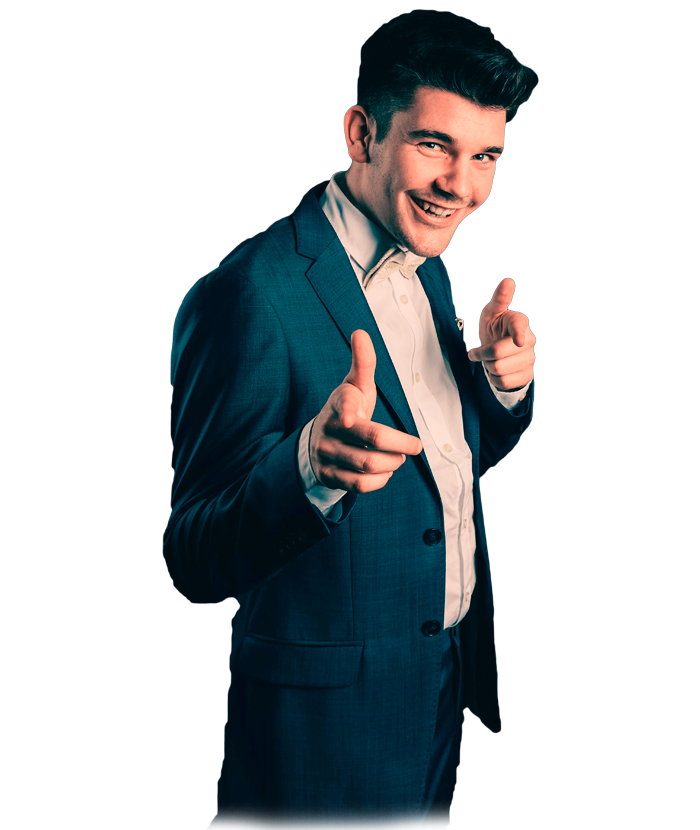
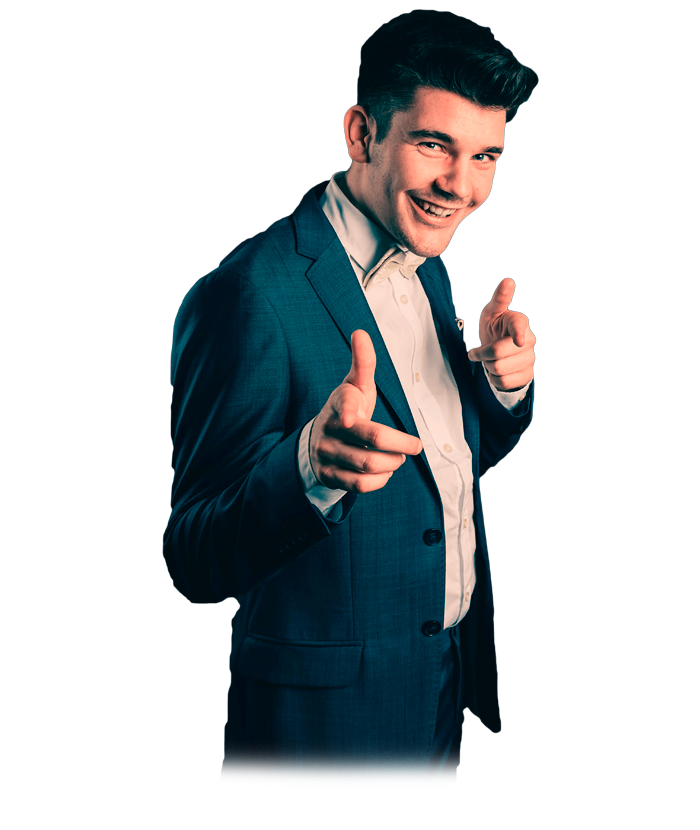
Responsive
- Removed <br> on mobile.
- Fixed image of myself with fade.
- Even more responsive for mobile

Changed region(s): [[0.3, 0.9036, 0.66, 1.0]]

diff --git a/css/style.css b/css/style.css
@@ -91,6 +91,28 @@ body, html {
   color: white;
 }
 
+.nameFontMobile {
+  font-size: 3em;
+  font-family: 'Lato';
+  font-weight: 300;
+  line-height: 0.7em;
+  letter-spacing: -2px; 
+  margin-bottom: 0;
+  margin-top: 30%;
+  color: white;
+}
+
+.nameFontMobile1 {
+  font-size: 3em;
+  font-family: 'Lato';
+  font-weight: 300;
+  line-height: 0.7em;
+  letter-spacing: -2px; 
+  margin-bottom: 0;
+  margin-top: 3%;
+  color: white;
+}
+
 #imFont {
   font-size: 2.5em;
   font-family: 'Lato'
@@ -126,7 +148,7 @@ body, html {
 	text-align: center;
 	background: linear-gradient(#FFFFFF, #F2F2F2);
 	padding-top: 3%;
-	margin-top: -1%;
+
 	z-index: 100;
 }
 
@@ -205,12 +227,9 @@ body, html {
     display: none;
   }
 
-  #nameFont {
-    font-size: 2em;
-  }
-
   #imFont {
-    font-size: 1em;
+    font-size: 1.5em;
+    margin-top: 3%;
   }
 
   .portfolioPhotoGone {
@@ -224,7 +243,24 @@ body, html {
   .underTitleTxtIntern {
     font-size: 2.5em;
   }
+  
+  #myPhoto {
+    width: 100%;
+  }
+  
 
+
+  .container-fluid-9 {
+    padding-top: 20px;
+  }
+
+  #nameFont {
+    display: none;
+  }
+
+  br {
+    display: none;
+  }
 }
 
 /* MEDIA QUERY DESKTOP */
@@ -235,4 +271,11 @@ body, html {
     display: none;
   }
 
+  .nameFontMobile {
+    display: none;
+  }
+
+  .nameFontMobile1 {
+    display: none;
+  }
 }

diff --git a/index.php b/index.php
@@ -36,6 +36,8 @@
 		<div class="row">
 			<div class="col-md-12 col-xs-12">
 				<p id="nameFont" class="animated fadeInUp"><span style="font-weight: 700;" >ALEXANDER</span>BRASGAARD</p>
+				<p class="nameFontMobile" class="animated fadeInUp"><span style="font-weight: 700;" >ALEXANDER</span></p>
+				<p class="nameFontMobile1" class="animated fadeInUp">BRASGAARD</p>
   				<p id="imFont" class="animated fadeInUp">I'm a <span class="txt-rotate" data-period="5000" data-rotate='[ "< Front-end Developer >" ]'></span> and Web Designer</p>
 			</div>
 		</div>
@@ -48,10 +50,10 @@
 		<div class="row">
 			<div class="col-md-6 col-xs-12">
 				<h3 class="titleTxtLeft ">about me</h3>
-			  	<p class="underTitleTxtLeft">I'm a front-end developer student<br>based in Aarhus, Denmark.</p>
-			  	<p class="commenTxtLeft">Hi! My name is Alexander Brasgaard.<br>I'm interested in all kinds of visual communication<br>but my major focus is on web development. I love creating stunning<br> functional and unique websites. Which brings great value<br>and a huge smile on the customers lips.</p>
-			  	<p class="commenTxtLeft">In my spare time I really enjoy hanging out with friends<br>and do something fun or exciting. And obviously sitting<br>in front of my computer with music in my ears.</p>
-			  	<p class="commenTxtLeft">I have always loved to explore and try out new things.<br>Being spontaneous is a big part of me. If i see a great opportunity<br> to try something out, count me in! It's important to me to keep<br>growing on a personal level together with my professional career.</p>
+			  	<p class="underTitleTxtLeft">I'm a front-end developer student <br>based in Aarhus, Denmark.</p>
+			  	<p class="commenTxtLeft">Hi! My name is Alexander Brasgaard.<br>I'm interested in all kinds of visual communication <br>but my major focus is on web development. I love creating stunning<br> functional and unique websites. Which brings great value<br>and a huge smile on the customers lips.</p>
+			  	<p class="commenTxtLeft">In my spare time I really enjoy hanging out with friends <br>and do something fun or exciting. And obviously sitting <br>in front of my computer with music in my ears.</p>
+			  	<p class="commenTxtLeft">I have always loved to explore and try out new things.<br> Being spontaneous is a big part of me. If i see a great opportunity<br> to try something out, count me in! It's important to me to keep<br> growing on a personal level together with my professional career.</p>
 			</div>
 
 			<div class="col-md-6 col-xs-12">
@@ -78,7 +80,7 @@
 			<div class="col-md-6 col-xs-12">
 				<h3 class="titleTxtLeft">haute friture</h3>
 			  	<p class="underTitleTxtLeft">Where grill meets gourment.</p>
-			  	<p class="commenTxtLeft">In this project I worked together with my study group to create<br>a new website for Haute Friture. They didn't have a website and<br> wanted to be able to show their current and new customers what<br>their gourment grill looked like. The requirement was to have focus on<br>their unique food through visuelle element and provide a menu.</p>
+			  	<p class="commenTxtLeft">In this project I worked together with my study group to create<br> a new website for Haute Friture. They didn't have a website and<br> wanted to be able to show their current and new customers what <br>their gourment grill looked like. The requirement was to have focus on<br>their unique food through visuelle element and provide a menu.</p>
 			</div>
 
 			<div class="col-md-6 col-xs-12">
@@ -135,7 +137,7 @@
 			<div class="col-md-6 col-xs-12">
 				<h3 class="titleTxtRight">grundfos</h3>
 			  	<p class="underTitleTxtRight">The world's leading pump manufacturer.</p>
-			  	<p class="commenTxtRight">This task was to create a new concept within Grundfos Ecademy.<br>They had 3 main problems which they would like to have solved: Onboarding, engagement and conversion.<br>Our concept main focus was to create better onboarding and a new way to managed users with new easy to use features. Therefore we designed and created an administration page for the companies that is on the Ecadamy.</p>
+			  	<p class="commenTxtRight">This task was to create a new concept within Grundfos Ecademy.<br>They had 3 main problems which they would like to have solved: Onboarding, engagement and conversion.<br> Our concept main focus was to create better onboarding and a new way to managed users with new easy to use features. Therefore we designed and created an administration page for the companies that is on the Ecadamy.</p>
 			</div>
 
 			<div class="col-md-6 col-xs-12">
@@ -157,7 +159,8 @@
 			  		To be honest? That would actually be really cool to try!<br>
 			  		If you think that I could fit in with your company<br> please feel free to contact me!<br><br>
 			  		Here are the different places you can contact me:</p>
-			  	<p class="underTitleTxt"><strong>Phone:</strong> +45 25 70 24 76 <br><strong>E-mail: </strong><a href="mailto:alexanderbrasgaard@hotmail.com" target="_top">alexanderbrasgaard@hotmail.com</a></p>
+			  	<p class="underTitleTxt"><strong>Phone:</strong> +45 25 70 24 76</p>
+			  	<p class="underTitleTxt"><strong>E-mail: </strong><a href="mailto:alexanderbrasgaard@hotmail.com" target="_top">alexanderbrasgaard@hotmail.com</a></p>
 			</div>
 		</div>
 	</div>
